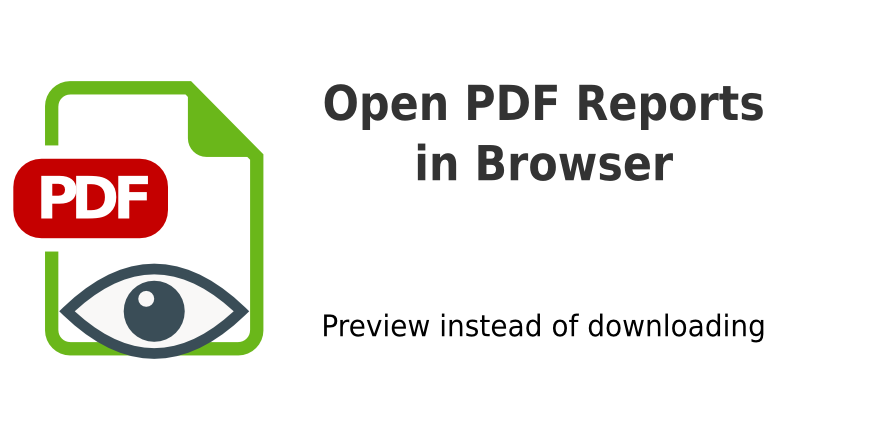
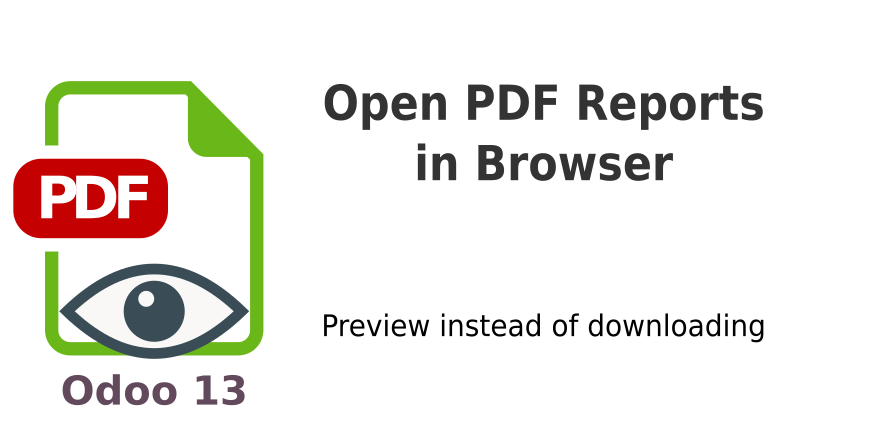
create branch 13.0

diff --git a/static/description/index.html b/static/description/index.html
@@ -19,7 +19,7 @@
                 </ul>
                 <h4>Support</h4>
                 <ul>
-                    <li>Tested on Odoo Community v12.0</li>
+                    <li>Tested on Odoo Community v13.0</li>
                     <li>Russian language translation</li>
                     <li>English, German and Russian language support</li>
                     <li><a href="mailto:odooapps@cetmix.com">Click to contact us</a> for support or any custom app you need</li>
@@ -27,7 +27,18 @@
             </div>
             <h3 style="text-align: center;"><a target="_blank" href="https://apps.odoo.com/apps/browse?repo_maintainer_id=222445">Click here for more addons!</a></h3>
             <h3 style="text-align: center;"><a href="mailto:odooapps@cetmix.com">Click to contact us</a> for support or any custom addons you need</h3>
+            <table style="margin-left:auto; margin-right:auto;">
+                <tbody>
+                <tr>
+                    <td class="gallery-image"><a target="_blank" href="https://www.facebook.com/cetmixteam/"><img src="https://demo.cetmix.com/cetmix_demo/static/src/images/fb.png"/></a></td>
+                    <td class="gallery-image"><a target="_blank" href="https://www.instagram.com/cetmix_team/"><img src="https://demo.cetmix.com/cetmix_demo/static/src/images/t212.png"/></a></td>
+                    <td class="gallery-image"><a target="_blank" href="https://twitter.com/cetmix_team"><img src="https://demo.cetmix.com/cetmix_demo/static/src/images/8271.png"/></a></td>
+                    <td class="gallery-image"><a target="_blank" href="https://www.linkedin.com/in/ivan-sokolov-x/"><img src="https://demo.cetmix.com/cetmix_demo/static/src/images/catme.png"/></a></td>
+                </tr>
+                </tbody>
+            </table>
         </div>
+    </div>
     </div>
 
     <div class="oe_row oe_spaced" style="max-width: 800px;">

diff --git a/static/src/js/cetmix_report_preview.js b/static/src/js/cetmix_report_preview.js
@@ -1,0 +1,41 @@
+odoo.define('prt_report_attachment_preview.ReportPreview', function (require) {
+"use strict";
+
+var ActionManager = require('web.ActionManager');
+var core = require('web.core');
+var framework = require('web.framework');
+var session = require('web.session');
+var _t = core._t;
+
+// Action Manager
+ActionManager.include({
+    //--------------------------------------------------------------------------
+    // Private
+    //--------------------------------------------------------------------------
+
+    /**
+     * Downloads a PDF report for the given url. It blocks the UI during the
+     * report generation and download.
+     *
+     * @param {string} url
+     * @returns {Deferred} resolved when the report has been downloaded ;
+     *   rejected if something went wrong during the report generation
+     */
+    _downloadReport: function (url) {
+        var def = $.Deferred();
+        console.log("Report!",url)
+
+        if (!window.open(url)) {
+            // AAB: this check should be done in get_file service directly,
+            // should not be the concern of the caller (and that way, get_file
+            // could return a deferred)
+            var message = _t('A popup window with your report was blocked. You ' +
+                             'may need to change your browser settings to allow ' +
+                             'popup windows for this page.');
+            this.do_warn(_t('Warning'), message, true);
+                    }
+
+        return def;
+            },
+    })
+});

diff --git a/controllers/cetmix_controllers.py b/controllers/cetmix_controllers.py
@@ -1,0 +1,62 @@
+from odoo import http
+from odoo.http import request
+from odoo.tools.safe_eval import safe_eval
+from odoo.addons.web.controllers.main import ReportController
+import werkzeug
+import json
+import time
+
+# List of content types that will be opened in browser
+OPEN_BROWSER_TYPES = ['application/pdf']
+
+
+######################
+# Report Controllers #
+######################
+class PrtReportController(ReportController):
+    @http.route([
+        '/report/<converter>/<reportname>',
+        '/report/<converter>/<reportname>/<docids>',
+    ], type='http', auth='user', website=True)
+    def report_routes(self, reportname, docids=None, converter=None, **data):
+        report = request.env['ir.actions.report']._get_report_from_name(reportname)
+        context = dict(request.env.context)
+
+        if docids:
+            docids = [int(i) for i in docids.split(',')]
+        if data.get('options'):
+            data.update(json.loads(data.pop('options')))
+        if data.get('context'):
+            # Ignore 'lang' here, because the context in data is the one from the webclient *but* if
+            # the user explicitely wants to change the lang, this mechanism overwrites it.
+            data['context'] = json.loads(data['context'])
+            if data['context'].get('lang'):
+                del data['context']['lang']
+            context.update(data['context'])
+        if converter == 'html':
+            html = report.with_context(context).render_qweb_html(docids, data=data)[0]
+            return request.make_response(html)
+        elif converter == 'pdf':
+
+            # Get filename for report
+            filepart = "report"
+
+            if docids:
+                if len(docids) > 1:
+                    filepart = "%s (x%s)" % (
+                    request.env['ir.model'].sudo().search([('model', '=', report.model)]).name, str(len(docids)))
+                elif len(docids) == 1:
+                    obj = request.env[report.model].browse(docids)
+                    if report.print_report_name:
+                        filepart = safe_eval(report.print_report_name, {'object': obj, 'time': time})
+
+            pdf = report.with_context(context).render_qweb_pdf(docids, data=data)[0]
+            pdfhttpheaders = [('Content-Type', 'application/pdf'), ('Content-Length', len(pdf)),
+                              ('Content-Disposition', 'filename="%s.pdf"' % filepart)]
+            return request.make_response(pdf, headers=pdfhttpheaders)
+        elif converter == 'text':
+            text = report.with_context(context).render_qweb_text(docids, data=data)[0]
+            texthttpheaders = [('Content-Type', 'text/plain'), ('Content-Length', len(text))]
+            return request.make_response(text, headers=texthttpheaders)
+        else:
+            raise werkzeug.exceptions.HTTPException(description='Converter %s not implemented.' % converter)

diff --git a/__manifest__.py b/__manifest__.py
@@ -1,12 +1,12 @@
 # -*- coding: utf-8 -*-
 {
     'name': 'Open PDF Reports and PDF Attachments in Browser',
-    'version': '12.0.1.1',
+    'version': '13.0.1.0',
     'summary': """Open PDF Reports and PDF Attachments in Browser""",
-    'author': 'Ivan Sokolov',
+    'author': 'Ivan Sokolov, Cetmix',
     'category': 'Productivity',
-    'license': 'GPL-3',
-    'website': 'https://demo.cetmix.com',
+    'license': 'LGPL-3',
+    'website': 'https://cetmix.com',
     'live_test_url': 'https://demo.cetmix.com',
     'description': """
     Preview reports and pdf attachments in browser instead of downloading them.
@@ -15,7 +15,7 @@
     'depends': ['base', 'web'],
     'images': ['static/description/banner.png'],
     'data': [
-        'views/prt_report_preview_template.xml',
+        'views/cetmix_report_preview_template.xml',
     ],
     'installable': True,
     'application': True,

diff --git a/controllers/__init__.py b/controllers/__init__.py
@@ -1,6 +1,6 @@
 # -*- coding: utf-8 -*-
 #
-from . import prt_controllers
+from . import cetmix_controllers
 
 
 

diff --git a/doc/changelog.rst b/doc/changelog.rst
@@ -1,9 +1,4 @@
-`12.0.1.1`
+`13.0.1.0`
 ----------
 
-- Bug fixes
-
-`12.0.1.0`
-----------
-
-- Release for Odoo 12
+- Release for Odoo 13
